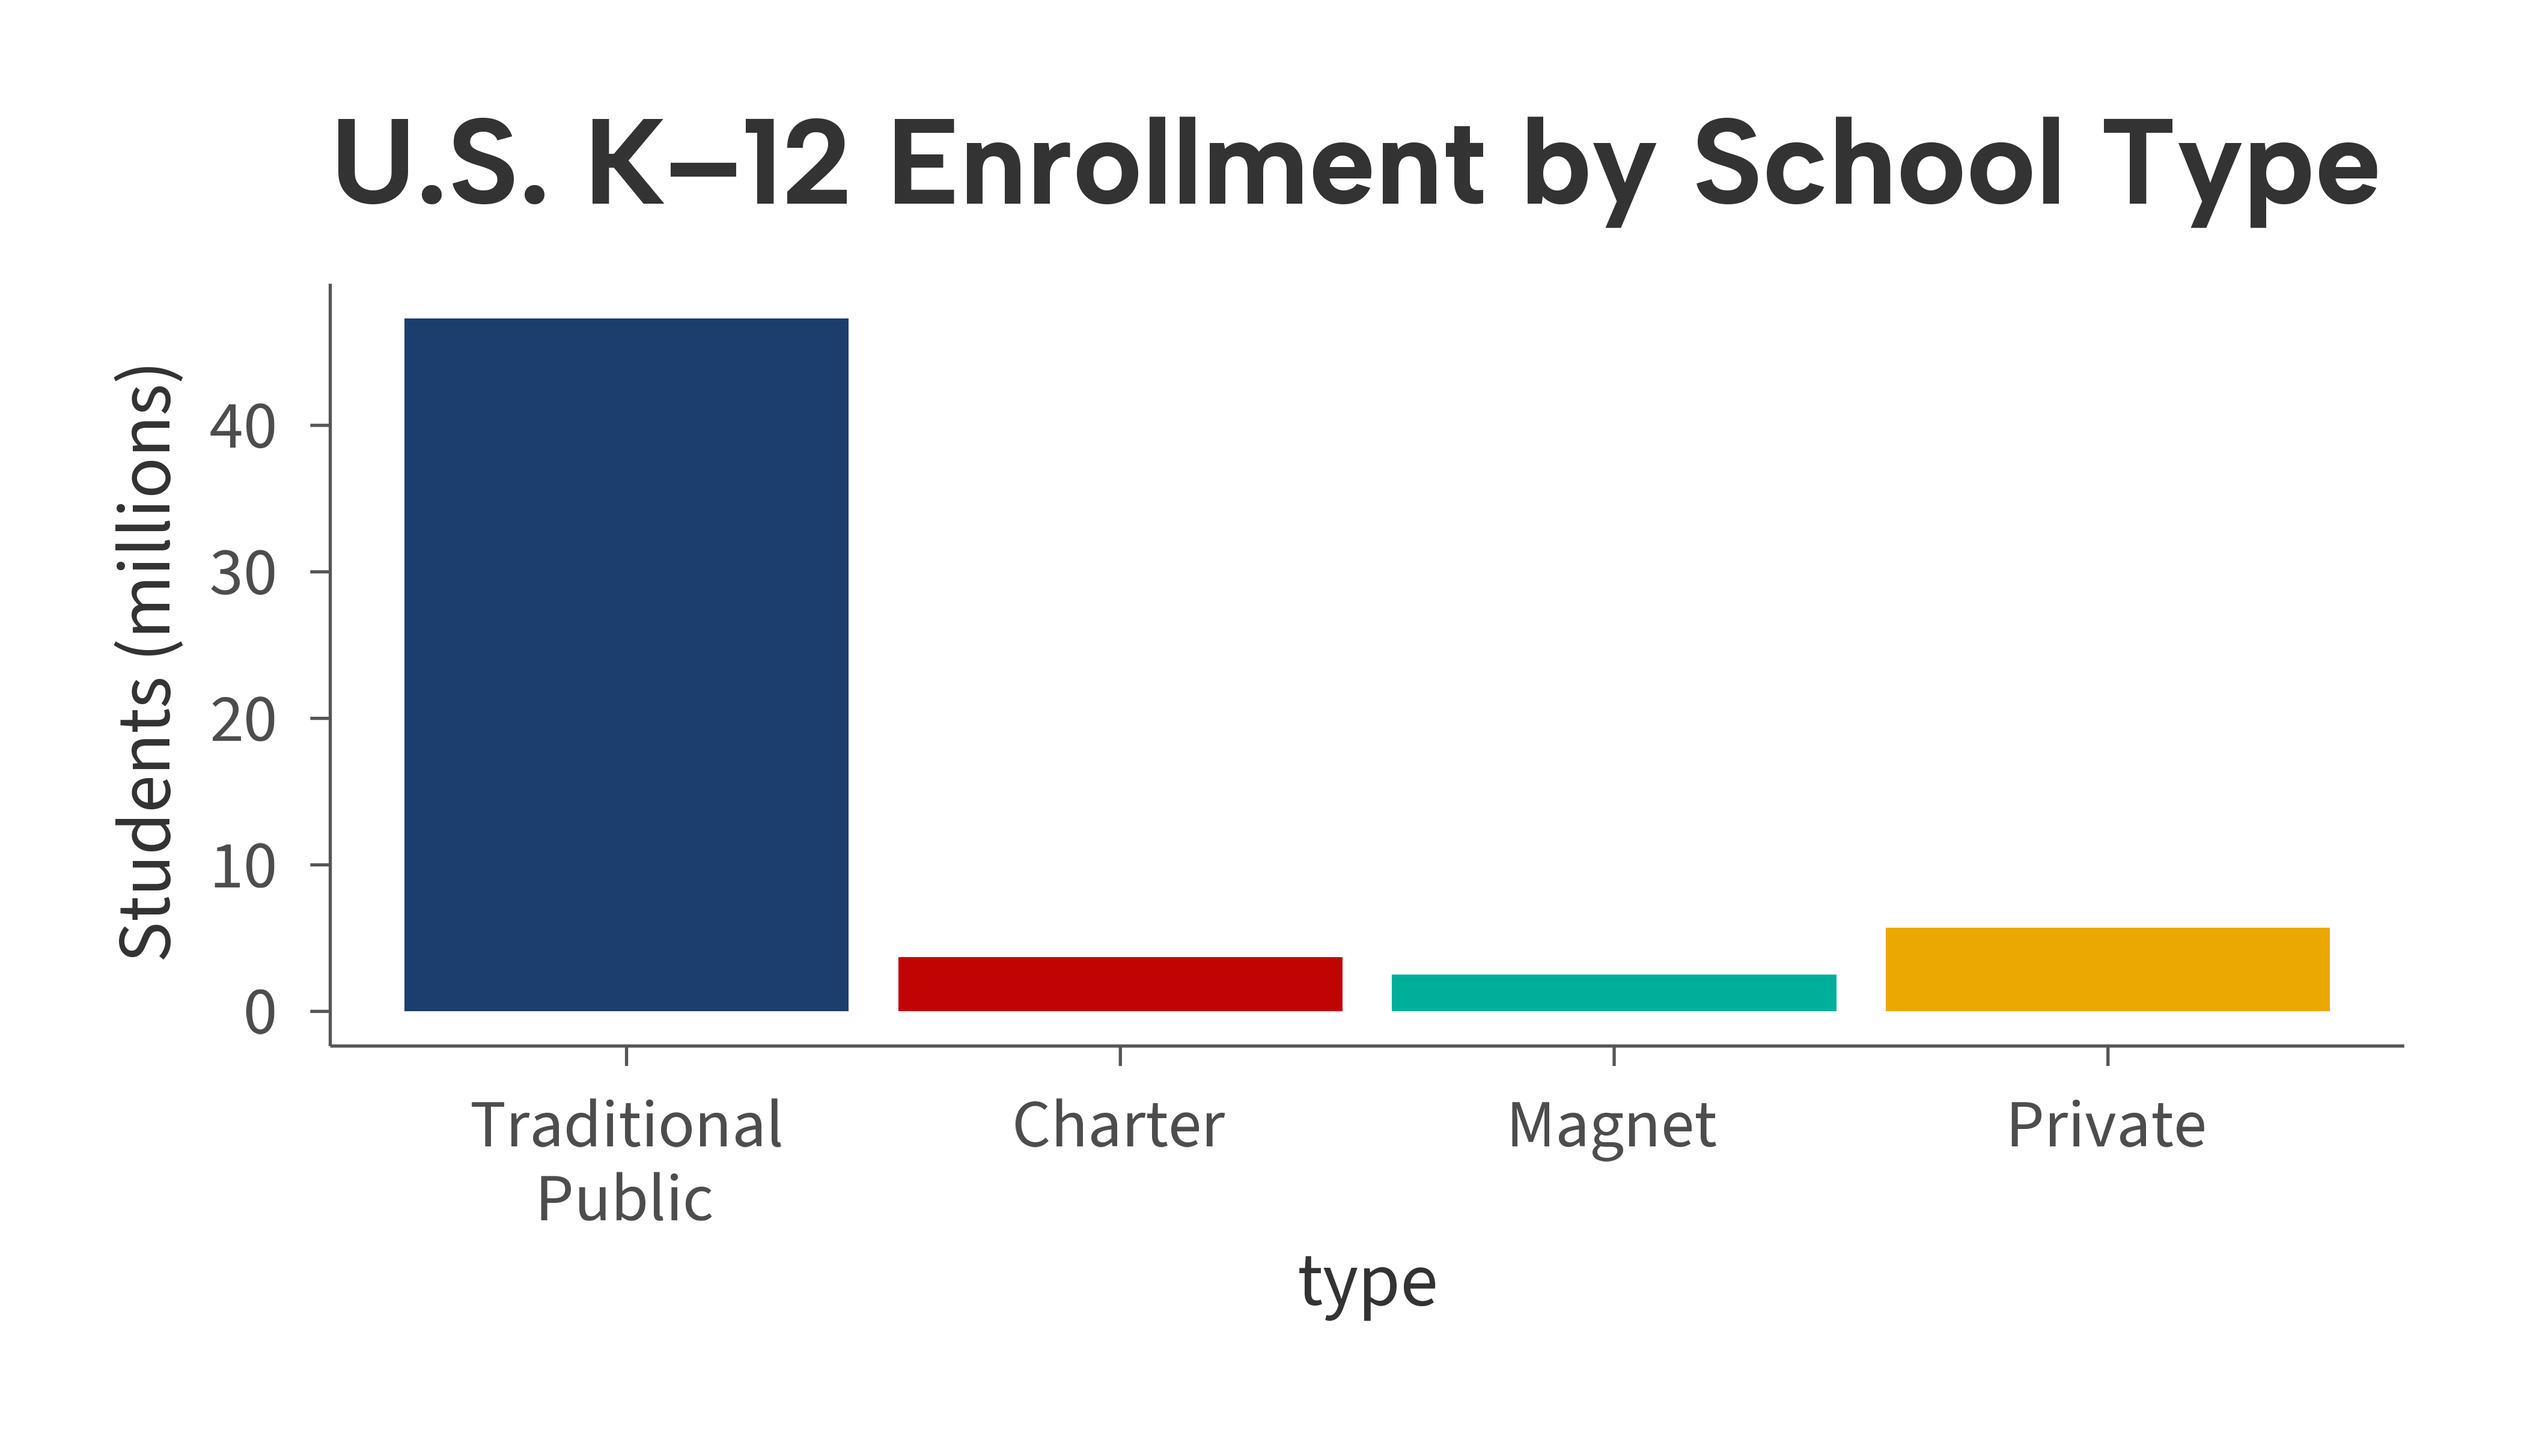
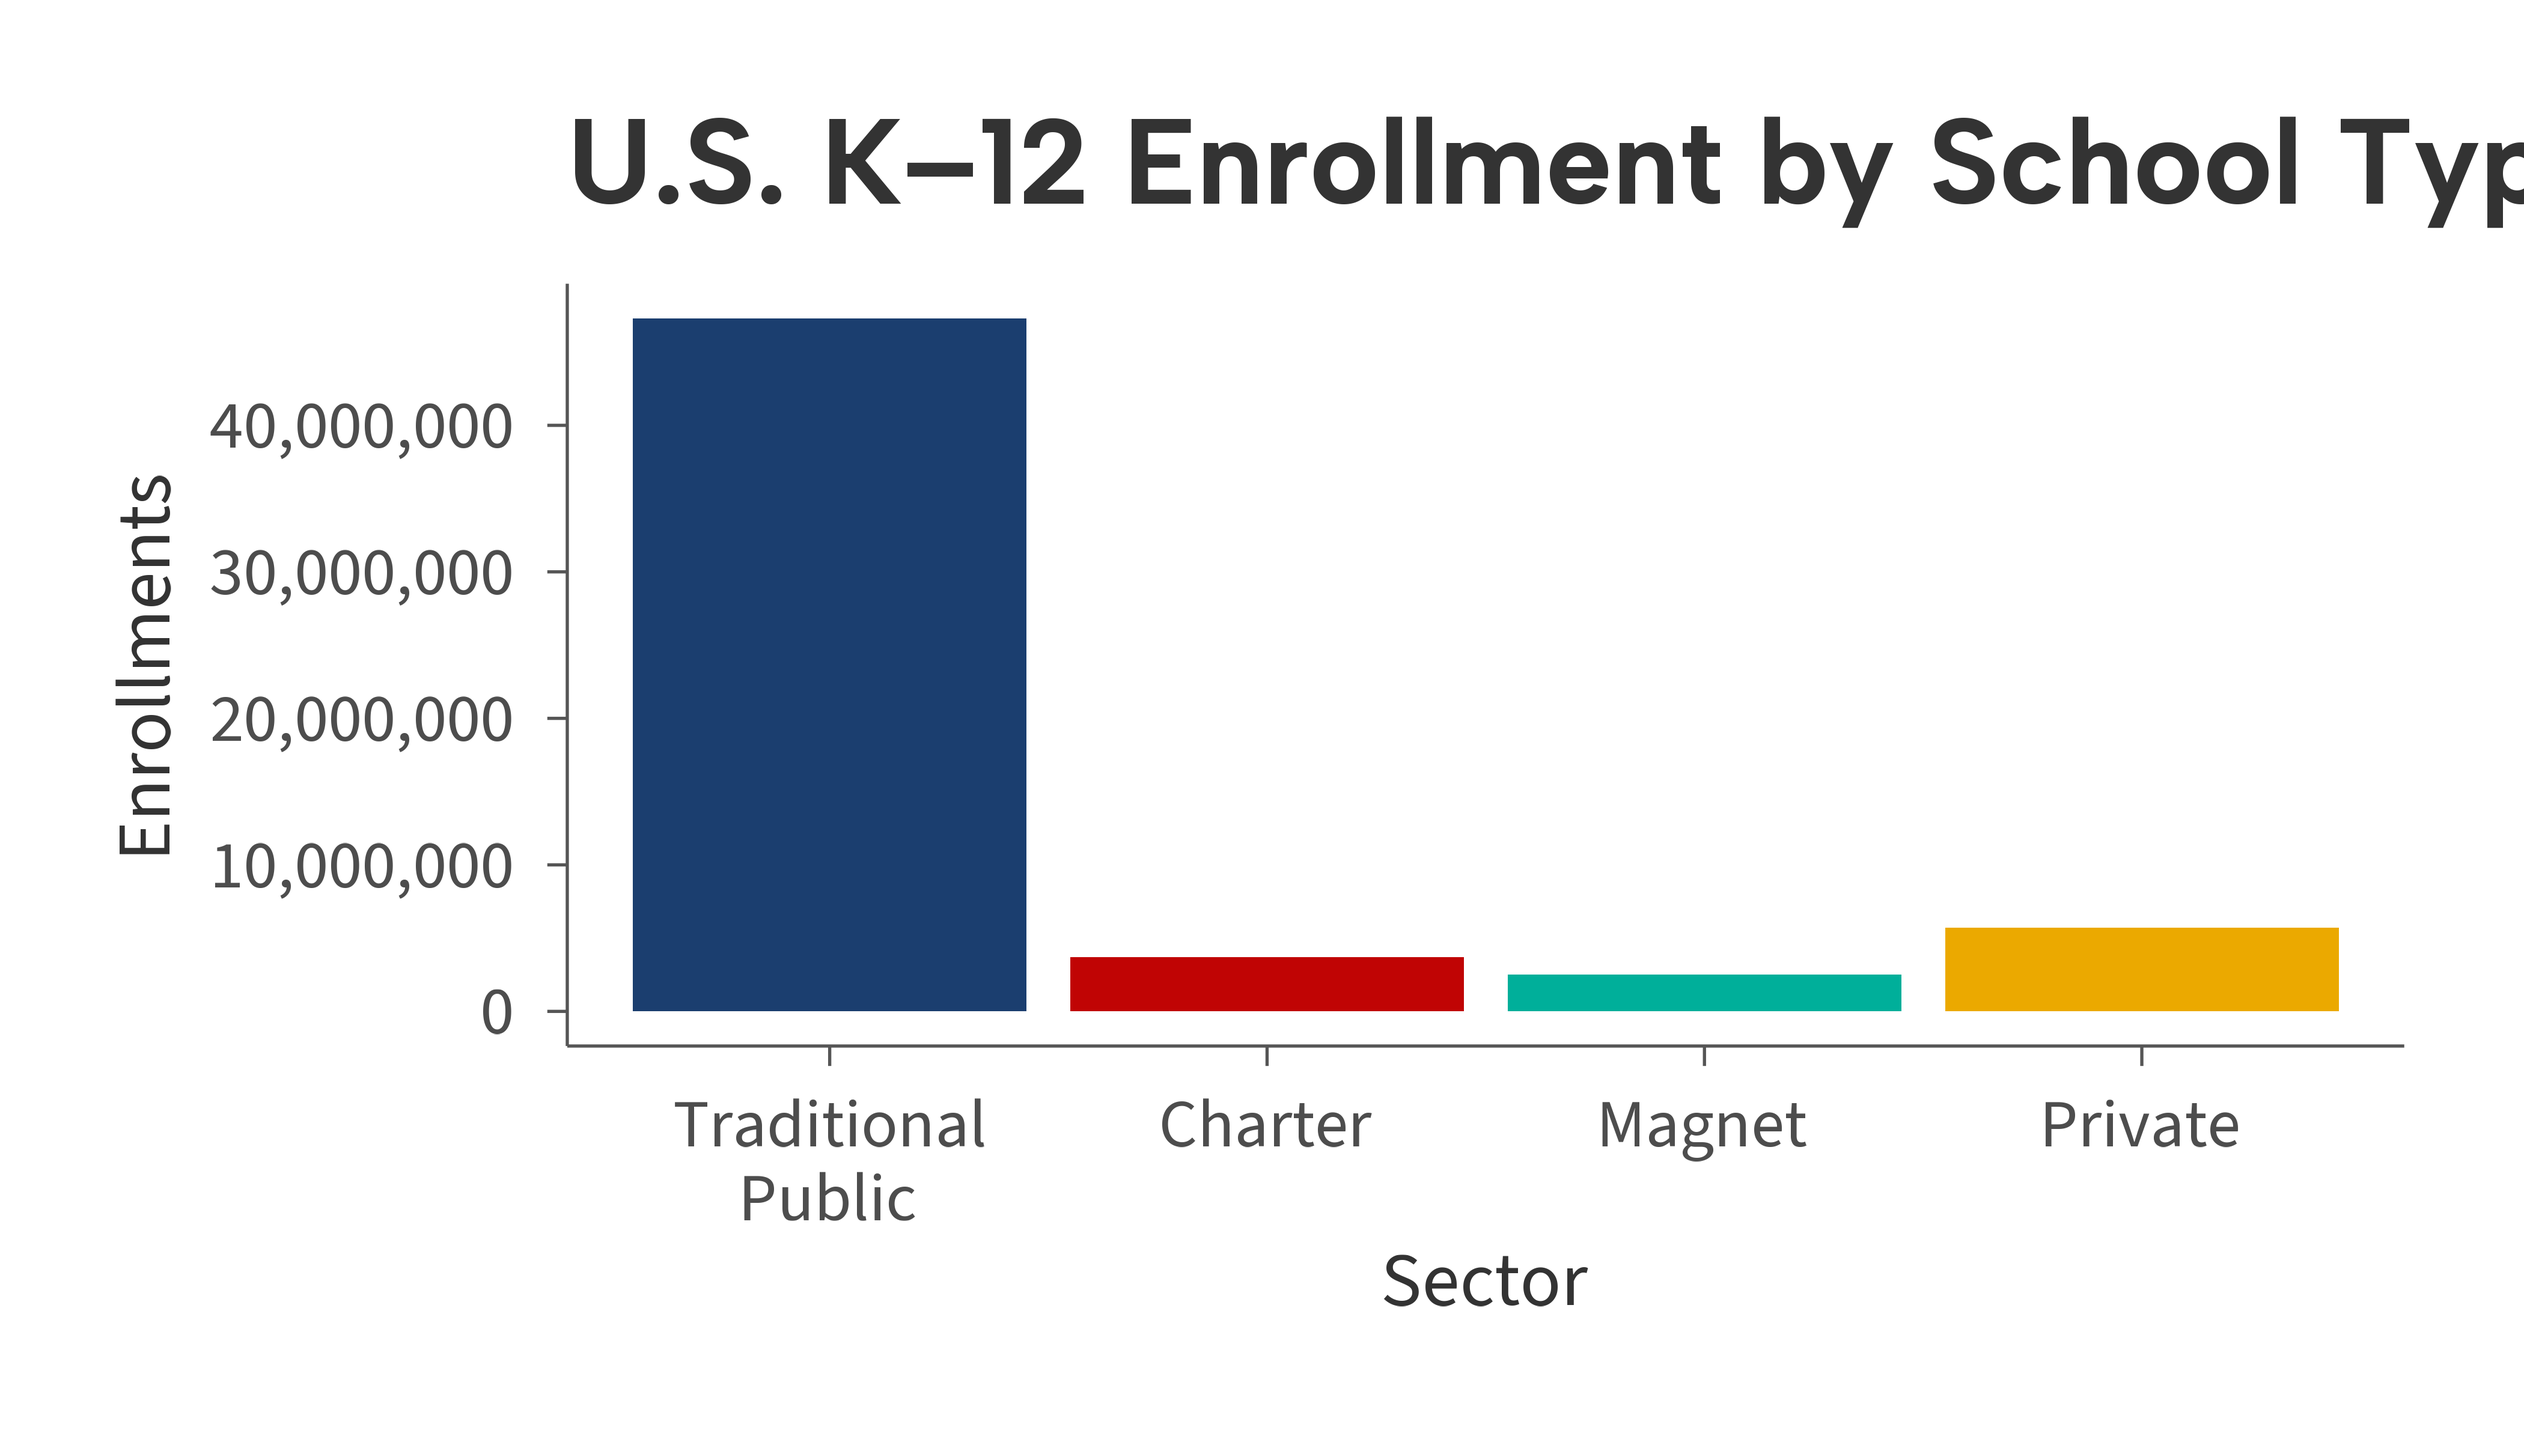
Update README and vignette with refined plot styling
Mirror README.Rmd changes to pkgdown vignette: add themes description,
aib_label formatters, consistent axis limits/breaks, and updated labels.
Re-knit README.md and regenerate plot figures.

diff --git a/README.md b/README.md
@@ -26,6 +26,11 @@ aib_colors()
 
 ## Themes
 
+There are four core themes included in the `ggaib` pacakge, each
+optimized for a different use case. All themes share the same base font
+and color palette, but differ in gridline and axis styling to suit
+different types of visualizations.
+
 ### `theme_aib()` — Publication
 
 A minimal, publication-quality theme with no gridlines and clean axis
@@ -40,13 +45,15 @@ districts <- data.frame(
 )
 
 ggplot(districts, aes(spending, avg_score, color = urbanicity)) +
-  geom_point(size = 3) +
+  geom_point(size = 2) +
   scale_color_aib() +
+  scale_x_continuous(labels = aib_label("dollar")) +
+  scale_y_continuous(limits = c(215, 300), breaks = seq(200, 300, 20)) +
   labs(
     title = "Per-Pupil Spending and Math Achievement",
     subtitle = "Simulated school district data",
-    x = "Per-Pupil Spending ($1,000s)",
-    y = "Avg. Math Score",
+    x = "Per-Pupil Expenditures\n($1,000s)",
+    y = "Avgerage Math Score",
     color = "Urbanicity",
     caption = "Note: Simulated data for illustration"
   ) +
@@ -75,11 +82,18 @@ gap_data <- data.frame(
 ggplot(gap_data, aes(year, score, color = group)) +
   geom_line(linewidth = 1) +
   scale_color_aib() +
+  scale_x_continuous(
+    breaks = seq(2005, 2025, 3)
+  ) +
+  scale_y_continuous(
+    limits = c(215, 300),
+    breaks = seq(200, 300, 20)
+  ) +
   labs(
     title = "Reading Achievement Gap Over Time",
-    subtitle = "4th-grade scores by family income",
+    subtitle = "4th-grade scores by household income",
     x = NULL,
-    y = "Avg. Reading Score",
+    y = "Average Reading Score",
     color = NULL
   ) +
   theme_aib_grid()
@@ -97,13 +111,16 @@ enrollment <- data.frame(
   students = c(47.3, 3.7, 2.5, 5.7)
 )
 enrollment$type <- factor(enrollment$type, levels = enrollment$type)
+enrollment$students <- enrollment$students * 1e6
 
 ggplot(enrollment, aes(type, students, fill = type)) +
   geom_col() +
   scale_fill_aib() +
+  scale_y_continuous(labels = aib_label("comma")) +
   labs(
     title = "U.S. K\u201312 Enrollment by School Type",
-    y = "Students (millions)"
+    x = "Sector",
+    y = "Enrollments"
   ) +
   theme_aib_slide() +
   theme(legend.position = "none")
@@ -152,8 +169,10 @@ schools <- data.frame(
 schools$avg_score <- schools$avg_score - (schools$st_ratio - 20) * 1.5
 
 ggplot(schools, aes(enrollment, avg_score, color = st_ratio)) +
-  geom_point(size = 3) +
+  geom_point(size = 2) +
   scale_color_aib_c() +
+  scale_x_continuous(labels = aib_label("comma"), breaks = seq(0, 1500, 300)) +
+  scale_y_continuous(limits = c(215, 300), breaks = seq(200, 300, 20)) +
   labs(
     title = "Student-Teacher Ratio Across Schools",
     x = "Enrollment",
@@ -161,6 +180,8 @@ ggplot(schools, aes(enrollment, avg_score, color = st_ratio)) +
     color = "Student-Teacher\nRatio"
   ) +
   theme_aib()
+#> Warning: Removed 3 rows containing missing values or values outside the scale range
+#> (`geom_point()`).
 ```
 
 <img src="man/figures/README-scale-continuous-1.png" alt="Scatter plot of schools colored by student-teacher ratio using a continuous navy-to-sky gradient" width="672" />
@@ -171,13 +192,15 @@ ggplot(schools, aes(enrollment, avg_score, color = st_ratio)) +
 set.seed(42)
 districts2 <- data.frame(
   enrollment = runif(80, 500, 5000),
-  avg_score = rnorm(80, 260, 20),
+  avg_score = rnorm(80, 255, 20),
   spending_change = rnorm(80, 0, 6)
 )
 
 ggplot(districts2, aes(enrollment, avg_score, color = spending_change)) +
-  geom_point(size = 3) +
+  geom_point(size = 2) +
   scale_color_aib_div() +
+  scale_x_continuous(labels = aib_label("comma"), breaks = seq(0, 5000, 500)) +
+  scale_y_continuous(limits = c(215, 300), breaks = seq(200, 300, 20)) +
   labs(
     title = "Year-over-Year Spending Change",
     x = "Enrollment",
@@ -185,6 +208,8 @@ ggplot(districts2, aes(enrollment, avg_score, color = spending_change)) +
     color = "Spending\nChange (%)"
   ) +
   theme_aib()
+#> Warning: Removed 2 rows containing missing values or values outside the scale range
+#> (`geom_point()`).
 ```
 
 <img src="man/figures/README-scale-diverging-1.png" alt="Scatter plot of districts colored by year-over-year spending change using a diverging red-gray-navy scale" width="672" />
